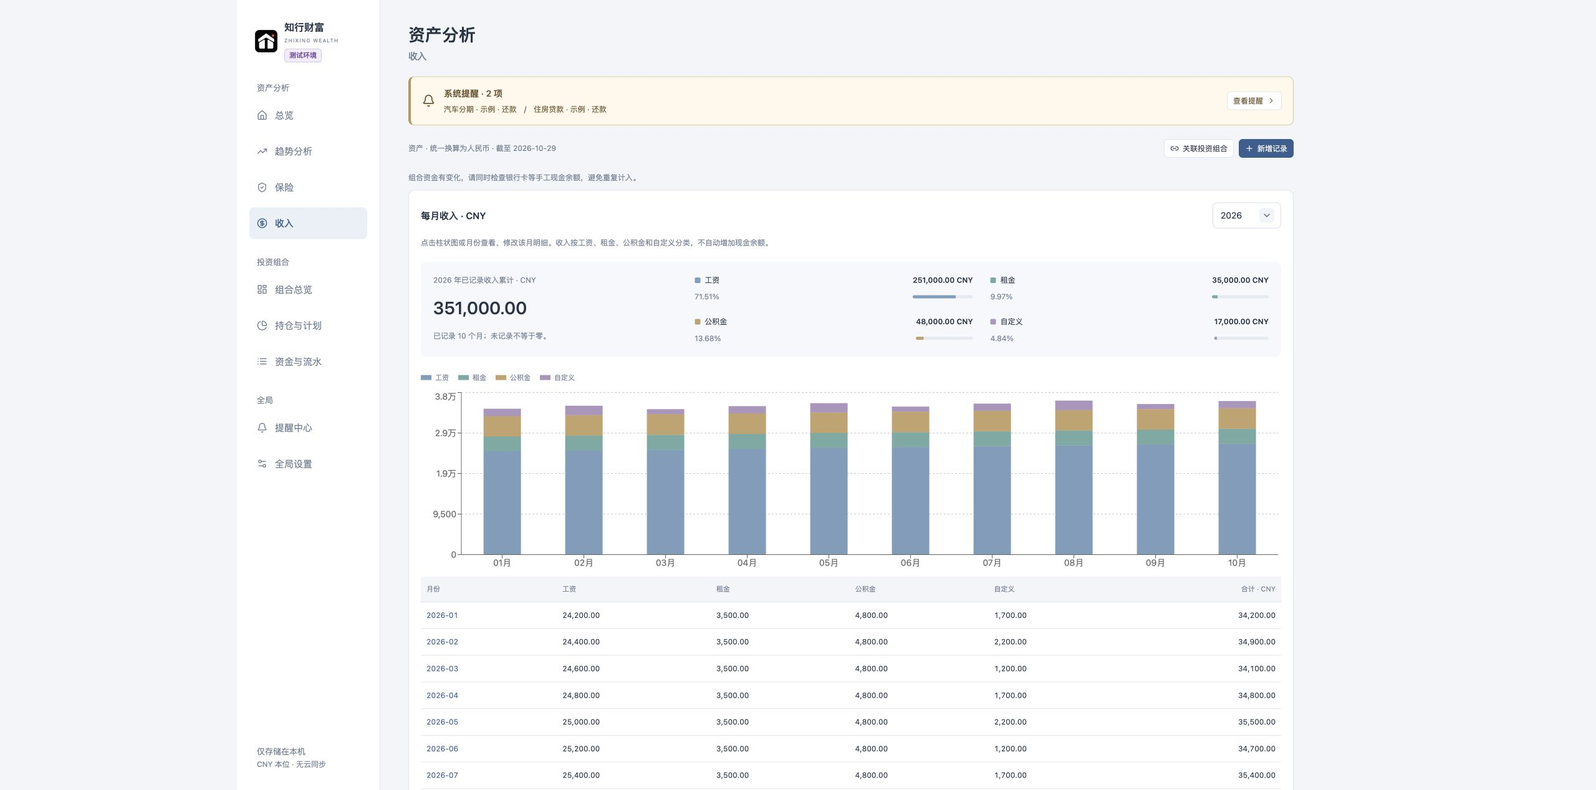
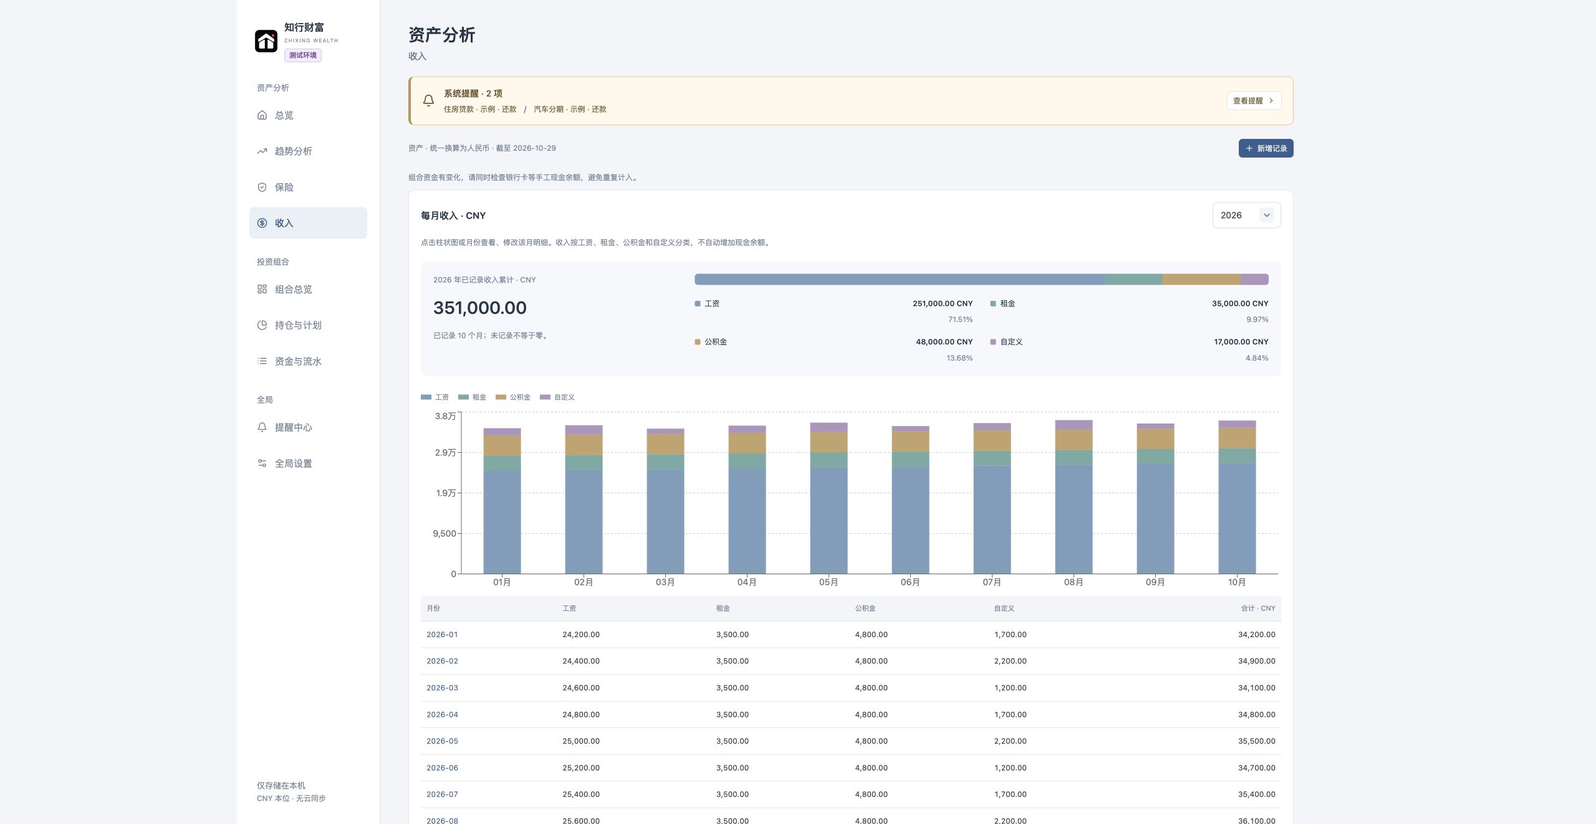
Fix mixed dividend history and simplify asset income presentation

diff --git a/frontend/src/family_ui.tsx b/frontend/src/family_ui.tsx
@@ -26,7 +26,7 @@ export function FamilyPage({version,today,tab,setTab,ledgerState,setLedgerState,
  if(!data||!catalog)return <><ErrorBox error={error}/><p>读取资产…</p></>;
  const open=(operation:string,row?:Obj)=>M({operation,row});
  const table=(rows:Obj[])=> <div className="table-wrap"><table className="family-asset-table"><thead><tr><th>名称</th><th>金额 · CNY</th><th>说明</th><th className="family-action-cell">操作</th></tr></thead><tbody>{rows.map(r=><tr key={r.id}><td><b>{r.name}</b><small>{r.linked?'来自投资组合 · 自动更新':categories[r.category]}</small></td><td><b>{money(r.value)}</b>{r.currency!=='CNY'&&<small>{money(r.household_amount)} {r.currency}</small>}</td><td>{r.category==='insurance'&&<small>{r.insured||'未填写被保险人'} · {r.coverage_type||'保险'}{r.coverage_amount!=null&&' · 保额 '+money(r.coverage_amount)+' '+r.currency}</small>}{r.category==='debt'&&<small>借款日期：{r.started_on||'未填写'}</small>}{r.payment_plan&&r.payment_plan.mode!=='none'&&<small>{planNames[r.payment_plan.mode]} · {r.payment_plan.first_due} 起 · {r.payment_plan.periods} {r.payment_plan.mode==='annual'?'年':'期'} · {r.payment_end} 结束</small>}<small>金额更新：{r.source_date||'尚未填写'}</small>{r.currency!=='CNY'&&<small>汇率 {r.fx?.rate||'未知'} · {r.fx?.date||'缺失'}</small>}</td><td className="family-action-cell"><div className="family-row-actions">{r.linked?<><button className="text-button" onClick={()=>openPortfolio(r.portfolio_id)}>查看组合</button><button className="text-button" onClick={()=>open('unlink',r)}>解除关联</button></>:<button className="text-button" onClick={()=>open('item',r)}>编辑</button>}</div></td></tr>)}</tbody></table>{!rows.length&&<Empty title="还没有记录">点击“新增记录”填写名称和金额。</Empty>}</div>;
- return <div className="family-page"><ErrorBox error={error}/><div className="family-intro"><span>资产 · 统一换算为人民币 · 截至 {data.as_of}</span><div className="inline-actions">{tab==='overview'&&<Button small onClick={()=>setTab('assets')}><Edit3 size={14}/>资产更新</Button>}{tab==='assets'&&<Button small onClick={()=>setTab('overview')}><ArrowLeft size={14}/>返回总览</Button>}<Button small onClick={()=>open('links')}><Link2 size={14}/>关联投资组合</Button><Button primary small onClick={()=>tab==='income'?open('income'):open('item',(tab==='assets'&&filter!=='all'?{category:filter}:tab==='insurance'?{category:'insurance'}:undefined))}><Plus size={14}/>新增记录</Button></div></div>
+ return <div className="family-page"><ErrorBox error={error}/><div className="family-intro"><span>资产 · 统一换算为人民币 · 截至 {data.as_of}</span><div className="inline-actions">{tab==='overview'&&<Button small onClick={()=>setTab('assets')}><Edit3 size={14}/>资产更新</Button>}{tab==='assets'&&<Button small onClick={()=>setTab('overview')}><ArrowLeft size={14}/>返回总览</Button>}{tab==='overview'&&<Button small onClick={()=>open('links')}><Link2 size={14}/>关联投资组合</Button>}<Button primary small onClick={()=>tab==='income'?open('income'):open('item',(tab==='assets'&&filter!=='all'?{category:filter}:tab==='insurance'?{category:'insurance'}:undefined))}><Plus size={14}/>新增记录</Button></div></div>
  {data.incomplete&&<Notice>{data.missing_items.join('；')}。请编辑对应记录补充金额，或在全局设置更新汇率。</Notice>}
  {data.reconciliation_todos.length>0&&<p className="muted small">组合资金有变化，请同时检查银行卡等手工现金余额，避免重复计入。</p>}
  {tab==='overview'&&<FamilyOverview version={version} today={today} bounds={catalog.bounds}/>}
@@ -49,7 +49,7 @@ function FamilyIncome({version,today,catalog,data:overview,onReload}:Obj){
  const records=(data?.records||[]).filter((r:Obj)=>r.month===month);
  return <><Panel title="每月收入 · CNY" right={<select className="income-year" aria-label="收入年份" value={selectedYear} disabled={!bounds.income_years.length} onChange={e=>{Y(e.target.value);M('');}}>{(bounds.income_years.length?bounds.income_years:[Number(today.slice(0,4))]).map((y:number)=><option key={y}>{y}</option>)}</select>}>
  <ErrorBox error={error}/><p className="muted small">点击柱状图或月份查看、修改该月明细。收入按工资、租金、公积金和自定义分类，不自动增加现金余额。</p>
- {!data?<p>读取收入…</p>:<>{data.summary?<div className="income-summary"><div className="income-year-total"><span>{selectedYear} 年已记录收入累计 · CNY</span><strong>{money(data.summary.total)}</strong><small>已记录 {data.summary.recorded_months} 个月；未记录不等于零。</small>{data.summary.missing_count>0&&<small>有 {data.summary.missing_count} 条缺少汇率；已知收入 {money(data.summary.known_total)} CNY，占比暂不计算。</small>}</div><div className="income-composition" aria-label="年度收入组成">{Object.keys(incomeNames).map(k=><div key={k}><span><i style={{background:incomeColors[k]}}/>{incomeNames[k]}</span><b>{money(data.summary.groups[k].amount)} CNY</b><span>{percent(data.summary.groups[k].share)}</span><div className="income-share-track"><i style={{width:(data.summary.groups[k].share===null?0:Number(data.summary.groups[k].share)*100)+'%',background:incomeColors[k]}}/></div></div>)}</div></div>:<Notice>当前服务尚未提供收入累计统计，请重启本环境服务后刷新。已有收入明细仍可查看和编辑。</Notice>}<div className="chart-legend income-legend">{Object.keys(incomeNames).map(k=><span key={k}><i style={{background:incomeColors[k],height:8}}/>{incomeNames[k]}</span>)}</div>
+ {!data?<p>读取收入…</p>:<>{data.summary?<div className="income-summary"><div className="income-year-total"><span>{selectedYear} 年已记录收入累计 · CNY</span><strong>{money(data.summary.total)}</strong><small>已记录 {data.summary.recorded_months} 个月；未记录不等于零。</small>{data.summary.missing_count>0&&<small>有 {data.summary.missing_count} 条缺少汇率；已知收入 {money(data.summary.known_total)} CNY，占比暂不计算。</small>}</div><div className="income-composition" aria-label="年度收入组成"><div className="income-share-bar" role="img" aria-label={'年度收入占比：'+Object.keys(incomeNames).map(k=>incomeNames[k]+' '+percent(data.summary.groups[k].share)).join('，')}>{Object.keys(incomeNames).filter(k=>Number(data.summary.groups[k].share)>0).map(k=><span key={k} title={incomeNames[k]+' '+percent(data.summary.groups[k].share)+' · '+money(data.summary.groups[k].amount)+' CNY'} style={{width:(Number(data.summary.groups[k].share)*100)+'%',background:incomeColors[k]}}/>)}</div><div className="income-composition-legend">{Object.keys(incomeNames).map(k=><div key={k}><span><i style={{background:incomeColors[k]}}/>{incomeNames[k]}</span><b>{money(data.summary.groups[k].amount)} CNY</b><span className="income-share-label">{percent(data.summary.groups[k].share)}</span></div>)}</div></div></div>:<Notice>当前服务尚未提供收入累计统计，请重启本环境服务后刷新。已有收入明细仍可查看和编辑。</Notice>}<div className="chart-legend income-legend">{Object.keys(incomeNames).map(k=><span key={k}><i style={{background:incomeColors[k],height:8}}/>{incomeNames[k]}</span>)}</div>
  <div className="family-history-chart income-stacked-chart"><ResponsiveContainer width="100%" height={300}><ComposedChart data={rows}><CartesianGrid vertical={false} strokeDasharray="3 3"/><XAxis dataKey="month" tickFormatter={v=>v.slice(5)+'月'}/><YAxis tickFormatter={v=>v<10000?money(v,0):money(v/10000,1)+'万'}/><Tooltip formatter={(v:any,name:any)=>[money(v)+' CNY',name]}/>{Object.keys(incomeNames).map(k=><Bar key={k} dataKey={k} name={incomeNames[k]} stackId="income" onClick={(entry:any)=>{if(entry?.payload?.month)M(entry.payload.month);}} fill={incomeColors[k]} maxBarSize={60} isAnimationActive={false} cursor="pointer"/>)}</ComposedChart></ResponsiveContainer></div>
  <div className="table-wrap"><table className="income-months"><thead><tr><th>月份</th>{Object.values(incomeNames).map(v=><th key={String(v)}>{String(v)}</th>)}<th>合计 · CNY</th></tr></thead><tbody>{rows.map((r:Obj)=><tr key={r.month} onClick={()=>M(r.month)}><td><button className="text-button" aria-label={'查看 '+r.month+' 收入'} onClick={()=>M(r.month)}>{r.month}</button></td>{Object.keys(incomeNames).map(k=><td key={k}>{r.recorded?money(r.groups[k]):'—'}</td>)}<td>{r.recorded?money(r.total):'未记录'}{r.recorded&&r.total===null&&<small>缺少汇率</small>}</td></tr>)}</tbody></table></div></>}
  </Panel>

diff --git a/frontend/src/family.css b/frontend/src/family.css
@@ -42,6 +42,6 @@
 .ledger-category-summary .ledger-totals strong{overflow-wrap:anywhere}
 .income-summary{display:grid;grid-template-columns:minmax(180px,.85fr) minmax(0,2fr);gap:28px;padding:20px;background:#f6f8fb;border-radius:10px;margin:20px 0 24px}
 .income-year-total{display:flex;flex-direction:column;gap:12px}.income-year-total>span,.income-year-total small{font-size:12px;color:#738196;line-height:1.6}.income-year-total strong{font-size:28px;overflow-wrap:anywhere}
-.income-composition{display:grid;grid-template-columns:1fr 1fr;gap:20px 28px}.income-composition>div{display:grid;grid-template-columns:1fr auto;gap:7px;font-size:12px}.income-composition>div>span:first-child{display:flex;align-items:center;gap:7px}.income-composition>div>span:first-child i{width:9px;height:9px;border-radius:2px}.income-composition b{font-weight:600}.income-composition>div>span:nth-child(3){color:#738196}.income-share-track{height:5px;align-self:center;background:#e5ebf2;border-radius:3px;overflow:hidden}.income-share-track i{display:block;height:100%}
+.income-composition{display:flex;flex-direction:column;justify-content:center;gap:20px;min-width:0}.income-share-bar{display:flex;height:18px;flex-shrink:0;background:#e5ebf2;border-radius:5px;overflow:hidden}.income-share-bar>span{height:100%;flex-shrink:0}.income-composition-legend{display:grid;grid-template-columns:1fr 1fr;gap:16px 28px}.income-composition-legend>div{display:grid;grid-template-columns:1fr auto;gap:6px;font-size:12px}.income-composition-legend>div>span:first-child{display:flex;align-items:center;gap:7px}.income-composition-legend i{width:9px;height:9px;border-radius:2px;flex-shrink:0}.income-composition b{font-weight:600}.income-share-label{grid-column:2;text-align:right;color:#738196}
 @media(max-width:700px){.trend-summary{padding:14px}.income-summary{grid-template-columns:1fr;gap:20px}.income-composition{gap:18px}.ledger-link-management{align-items:flex-start;flex-direction:column}.trend-delta-heading span{font-size:11px}}
-@media(max-width:420px){.income-composition{grid-template-columns:1fr}.income-year-total strong{font-size:25px}.trend-summary strong{font-size:21px}}
+@media(max-width:420px){.income-composition-legend{grid-template-columns:1fr}.income-year-total strong{font-size:25px}.trend-summary strong{font-size:21px}}

diff --git a/frontend/src/App.tsx b/frontend/src/App.tsx
@@ -75,7 +75,7 @@ export default function App(){
  </div>;
 }
 
-function Quality({dash,action}:Obj){return <>{dash.warnings.length>0&&<details className="quality-warning"><summary>{dash.incomplete?'人民币合计不完整':'估值含暂估 / 待核对项'} · {dash.warnings.length}项</summary><ul>{dash.warnings.map((w:string)=><li key={w}>{w}</li>)}</ul><TodoActions todos={dash.todos} action={action}/>{dash.latest_complete_date&&<small>最近完整估值日 {dash.latest_complete_date}</small>}</details>}<div className="data-caption"><span>估值截至 {dash.date} · 金额统一为CNY</span><span>{dash.incomplete?'缺失数据未按0或1补齐':dash.estimated?'暂估数字，请核对来源':'按已记录资产与可得行情估值'}</span></div></>}
+function Quality({dash,action}:Obj){const splits=(dash.todos||[]).filter((t:Obj)=>['confirm_split','verify_split'].includes(t.type));return <>{splits.length>0&&<div className="corporate-action-notice"><Notice>有送转股 / 拆股待核对，相关收益暂不计算。确认后会调整份额并重算历史收益；原买入数量与总成本保留。</Notice><TodoActions todos={splits} action={action}/></div>}{dash.warnings.length>0&&<details className="quality-warning"><summary>{dash.incomplete?'人民币合计不完整':'估值含暂估 / 待核对项'} · {dash.warnings.length}项</summary><ul>{dash.warnings.map((w:string)=><li key={w}>{w}</li>)}</ul><TodoActions todos={(dash.todos||[]).filter((t:Obj)=>!['confirm_split','verify_split'].includes(t.type))} action={action}/>{dash.latest_complete_date&&<small>最近完整估值日 {dash.latest_complete_date}</small>}</details>}<div className="data-caption"><span>估值截至 {dash.date} · 金额统一为CNY</span><span>{dash.incomplete?'缺失数据未按0或1补齐':dash.estimated?'暂估数字，请核对来源':'按已记录资产与可得行情估值'}</span></div></>}
 
 function Overview({dash,grain,setGrain,range,setRange,start,end,setStart,setEnd,today,action,openDetail}:Obj){const b=dash.benchmark;
 

diff --git a/tests/test_corporate_actions.py b/tests/test_corporate_actions.py
@@ -69,6 +69,23 @@ class CorporateActionTests(unittest.TestCase):
         self.assertEqual(D(sold['capital_summary']['profit']),300)
         self.assertEqual(D(sold['curve'][-1]['portfolio_return']),D('.1'))
 
+    def test_cash_only_null_ratios_do_not_hide_share_distribution(self):
+        cash={**report(), 'BONUS_RATIO':None, 'IT_RATIO':None, 'BONUS_IT_RATIO':None,
+              'PRETAX_BONUS_RMB':'2.50', 'IMPL_PLAN_PROFILE':'10派2.50元(含税,扣税后2.25元)'}
+        reports=[{**cash,'EX_DIVIDEND_DATE':'2026-06-03'},report(),{**cash,'EX_DIVIDEND_DATE':'2024-06-03'}]
+        actions=dividends.parse_stock_splits(reports,'600000')
+        self.assertEqual(len(actions),1)
+        self.assertEqual(actions[0]['date'],'2025-06-03')
+        self.assertEqual(actions[0]['factor'],'3')
+        self.assertEqual(dividends.parse_stock_splits([cash],'600000'),[])
+        # Null is never generally equivalent to zero. Unknown plans, conflicting
+        # numeric fields and plans with shares must remain explicit sync failures.
+        for change in ({'IMPL_PLAN_PROFILE':None}, {'PRETAX_BONUS_RMB':'3'},
+                       {'BONUS_RATIO':'1'}, {'IMPL_PLAN_PROFILE':'10送1股派2.50元(含税)'},
+                       {'IMPL_PLAN_PROFILE':'10派2.50元(含税)，另送1股'}):
+            with self.subTest(change=change),self.assertRaises(market.ProviderError):
+                dividends.parse_stock_splits([{**cash,**change}],'600000')
+
     def test_split_replay_precedes_same_day_buy_even_when_recorded_later(self):
         other=self.event('BUY','2025-06-03',instrument_id=self.iid,quantity='10',gross_amount='90')
         self.event('SPLIT','2025-06-03',instrument_id=self.iid,factor='3')
@@ -92,7 +109,9 @@ class CorporateActionTests(unittest.TestCase):
 
     def test_sync_discovers_share_action_even_if_price_source_fails(self):
         initial=self.store.state()['events']
-        with patch('backend.market.exchange_rates',return_value=[dict(currency='USD',date='2025-06-01',rate='7',source='synthetic')]),patch('backend.market.quotes',side_effect=market.ProviderError('synthetic outage')),patch('backend.dividends.fetch_stock_splits',return_value=dividends.parse_stock_splits([report()],'600000')),patch('backend.dividends.fetch_notices',return_value=[]):
+        cash={**report(), 'EX_DIVIDEND_DATE':'2024-06-03', 'BONUS_RATIO':None, 'IT_RATIO':None,
+              'BONUS_IT_RATIO':None,'PRETAX_BONUS_RMB':'2.50','IMPL_PLAN_PROFILE':'10派2.50元(含税)'}
+        with patch('backend.market.exchange_rates',return_value=[dict(currency='USD',date='2025-06-01',rate='7',source='synthetic')]),patch('backend.market.quotes',side_effect=market.ProviderError('synthetic outage')),patch('backend.dividends.stock_records',return_value=[cash,report()]),patch('backend.dividends.fetch_notices',return_value=[]):
             self.service.start_sync(self.iid)
             for _ in range(200):
                 if not self.service.syncing:break
@@ -100,6 +119,7 @@ class CorporateActionTests(unittest.TestCase):
             self.assertFalse(self.service.syncing)
         self.assertEqual(self.store.state()['events'],initial)
         self.assertEqual(self.service.dashboard(self.p['id'],end='2025-06-03')['todos'][0]['type'],'confirm_split')
+        self.assertIsNone(self.service.dashboard(self.p['id'],end='2025-06-03')['curve'][-1]['portfolio_return'])
 
     def test_adjusted_reference_refreshes_full_span_but_raw_stays_incremental(self):
         calls=[]

diff --git a/backend/dividends.py b/backend/dividends.py
@@ -105,7 +105,17 @@ def parse_stock_splits(records, code):
             if total is not None and value!=dec(total,nonnegative=True):
                 raise market.ProviderError('送股与转增合计不一致，请核对公告')
         elif total is not None:value=dec(total,nonnegative=True)
-        else:raise market.ProviderError('已实施公告缺少送转比例，未推定为零')
+        else:
+            # This feed uses null share ratios for cash-only distributions. Require
+            # the implemented plan AND matching cash amount before accepting that
+            # interpretation; a missing/ambiguous plan must still fail visibly.
+            profile=str(r.get('IMPL_PLAN_PROFILE') or '').replace(' ','').replace('（','(').replace('）',')')
+            cash_only=re.fullmatch(r'10派(\d+(?:\.\d+)?)元(?:\(含税(?:[,，]扣税后\d+(?:\.\d+)?元)?\))?',profile)
+            cash=r.get('PRETAX_BONUS_RMB')
+            if (all(v is None for v in parts) and cash_only and cash is not None
+                    and dec(cash,nonnegative=True)>0 and dec(cash_only[1])==dec(cash)):
+                continue
+            raise market.ProviderError('已实施公告缺少送转比例，且无法核实为纯现金分红，请核对公告')
         if value==0:continue
         record_date=date_or_none(r.get('EQUITY_RECORD_DATE'))
         if not record_date or record_date>=ex:raise market.ProviderError('送转股登记日或除权日不完整')

diff --git a/docs/design.md b/docs/design.md
@@ -52,7 +52,7 @@ Leo · 2026.10.28
 
 现金、固定资产、手工理财、应收款均使用「类别 → 币种 → 名称/渠道 → 金额 → 金额日期」。日期默认今天、不可晚于今天。保存是该日期的金额记录，不抹掉后来的余额；补录旧日期后，当前余额仍取最新有效日期。新增与编辑复用同一表单，编辑时类别和币种置灰。
 
-页面仅保留顶部「新增记录」。进入台账分类、保险或收入页时预选对应类别；分类列表不再增加第二个新增按钮。关联组合仍只支持关联/解除，金额和来源日期由组合提供，资产端不可反向写入。
+页面仅保留顶部「新增记录」。进入台账分类、保险或收入页时预选对应类别；分类列表不再增加第二个新增按钮。「关联投资组合」入口仅在资产总览顶部展示，台账、趋势、保险和收入页不展示。关联组合仍只支持关联/解除，金额和来源日期由组合提供，资产端不可反向写入。
 
 台账采用左侧分类与项目、右侧明细，默认全部项目，不提供搜索框。现金、固定资产、投资理财、应收款、负债、保险均可直接分类查看；负债和应收款不再占用独立页签。窄屏用分类按钮和项目列表进入详情，保留同一更新流程。旧负债、应收款链接映射到相应台账分类。
 
@@ -62,7 +62,7 @@ Leo · 2026.10.28
 
 负债列表和详情统一使用「更新负债」完整表单，保留余额历史，不提供快捷余额编辑器。负债分类顶部显示总负债、本自然月计划应还、可用现金覆盖倍数。本月应还按当前付款规则计算整月，包含本月已过日期，不代表实付或尚欠；不减记债务与现金。生成规则金额已经是实际持有/承担金额，不再次乘持有比例。现金覆盖＝可用现金÷本月应还，无计划、缺汇率时保留未知并展示已知部分；本月为零时显示无需还款，不显示无限倍。
 
-收入顶部展示所选年份已记录累计金额、录入月份数、四类金额及各自占比，由后端 summary 统一提供。无记录时累计未知；有缺失汇率时累计和全部占比未知，同时显示已知部分；零累计不计算占比。收入按工资、租金、公积金、自定义四类使用稳定颜色的堆叠柱状图。表格为月度汇总，点击月份或柱形打开当月侧栏，明细编辑沿用收入表单，保存后回到该月并刷新。明细不常驻铺在页面。未录入月份显示「未记录」，缺汇率不画成零；金额不重复加入现金或总资产。
+收入顶部展示所选年份已记录累计金额、录入月份数、四类金额及各自占比，由后端 summary 统一提供。年度组成在一条横向分段条中按比例展示，颜色与月度柱图一致；图例保留各类金额和占比，不为零或未知占比绘制占位份额。无记录时累计未知；有缺失汇率时累计和全部占比未知，同时显示已知部分；零累计不计算占比。收入按工资、租金、公积金、自定义四类使用稳定颜色的堆叠柱状图。表格为月度汇总，点击月份或柱形打开当月侧栏，明细编辑沿用收入表单，保存后回到该月并刷新。明细不常驻铺在页面。未录入月份显示「未记录」，缺汇率不画成零；金额不重复加入现金或总资产。
 
 ## 资产总览统计口径
 

diff --git a/docs/api.md b/docs/api.md
@@ -291,8 +291,8 @@ health 的 `read_only=true` 表示发布只读验收阶段：所有非 GET/HEAD/
 
 ## 送转股与复权行情
 
-A股行情同步单独读取已实施送股/转增公告，`jobs.items[].source_kind=corporate_actions` 显示结果；只缓存公告，不自动增加账本流水。公告源失败保留旧缓存并显示失败，不从价格跳变猜测比例。港美股已有拆股公告沿用相同确认流程。
+A股行情同步单独读取已实施送股/转增公告，`jobs.items[].source_kind=corporate_actions` 显示结果；只缓存公告，不自动增加账本流水。源中的纯现金分红可能将送转比例置空：只有实施方案明确为纯派现且金额与结构化字段一致时，才按无送转处理；未知或冲突仍报告同步失败。公告源失败保留旧缓存并显示失败，不从价格跳变猜测比例。港美股已有拆股公告沿用相同确认流程。
 
-`dashboard.todos` 和 `GET /api/portfolios/P/instruments/I` 的 `todos` 提供 `confirm_split` / `verify_split`。核对登记日持仓、除权日与倍数后，使用普通交易预览和 `/api/events` 提交 `kind=SPLIT`、`factor`、`instrument_id`、`portfolio_id`、`date`、`expected_revision`；10送8转12的倍数为3。保留原买入和总成本，除权当日先调整隔夜持仓，再处理当日买卖；现金分红及实际扣税单独核对。已知未确认或比例不一致时，相关估值/收益留空提示核对，不以错误份额展示暴跌。
+`dashboard.todos` 和 `GET /api/portfolios/P/instruments/I` 的 `todos` 提供 `confirm_split` / `verify_split`。核对登记日持仓、除权日与倍数后，使用普通交易预览和 `/api/events` 提交 `kind=SPLIT`、`factor`、`instrument_id`、`portfolio_id`、`date`、`expected_revision`；10送8转12的倍数为3。组合首页直接展示待核对入口。确认后新增独立送转流水，保留原买入数量和总成本，除权当日先调整隔夜持仓，再处理当日买卖；现金分红及实际扣税单独核对。已知未确认或比例不一致时，相关估值/收益留空提示核对，不以错误份额展示暴跌。
 
 标的详情新增 `price_basis`（`raw` / `adjusted`），有复权数据的股票默认 adjusted。A股标注前复权参考，港美股按数据源标注复权参考；基金单位净值不强行复权。`curves` 中仍保留原有两种序列。同步时复权参考刷新完整记账区间，避免除权前后的缓存调整基准混用；未复权行情继续增量同步。复权仅用于价格走势及后续行情参考，不替换真实成交价、估值现价、收益、现金红利或 XIRR。

diff --git a/README.md b/README.md
@@ -47,7 +47,7 @@
 
 ### 收入组成：看见每一份积累
 
-这一年已经记录了多少收入，工资、租金、公积金和其他收入各占多少？累计金额与分类占比放在月度图表之前，点击月份即可追到明细。收入记录和资产余额分开核对，不重复计入财富。
+这一年已经记录了多少收入，工资、租金、公积金和其他收入各占多少？累计金额与一条彩色横条放在月度图表之前，各类收入占比一眼可比，点击月份即可追到明细。收入记录和资产余额分开核对，不重复计入财富。
 
 ![收入累计与组成：所选年份的合成收入、分类金额和占比](docs/images/income.jpg)
 
